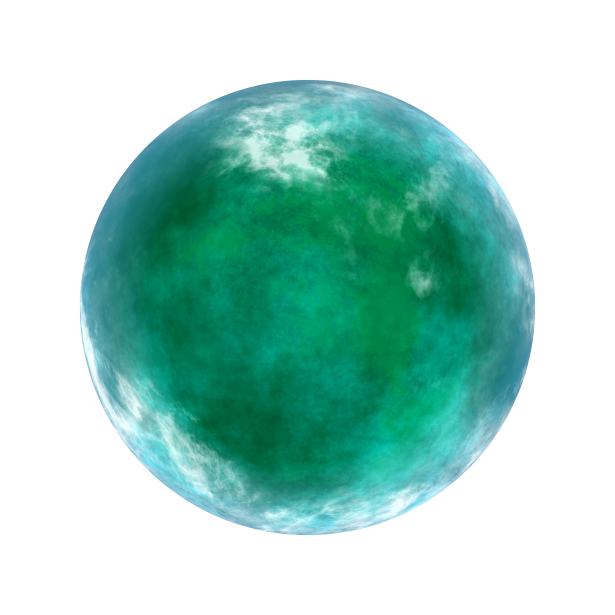
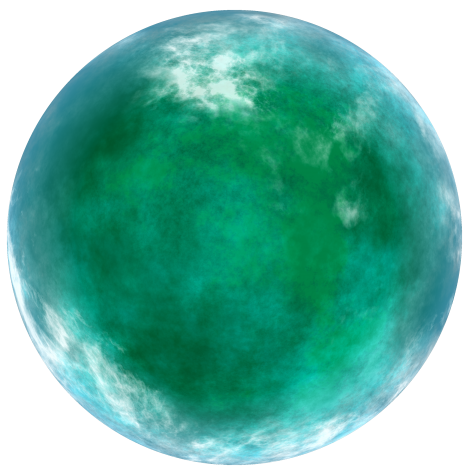
more fixes

diff --git a/SpaceGame.py b/SpaceGame.py
@@ -44,7 +44,7 @@ sunX = 470
 sunY = 260
 
 planet_green1 = pygame.image.load('planet_green.png')
-planet_green1 = pygame.transform.scale(planet_green1, (100, 100))
+planet_green1 = pygame.transform.scale(planet_green1, (75, 75))
 planet_greenX = 580
 planet_greenY = 80
 
@@ -83,7 +83,7 @@ def earth():
 
 # Collision
 def isCollision(playerX, playerY, planetX, planetY):
-    if playerX > planetX - 30 and playerX < planetX + 30 and playerY > planetY - 30 and playerY < planetY + 30:
+    if playerX > planetX - 40 and playerX < planetX + 40 and playerY > planetY - 40 and playerY < planetY + 40:
         return True
     return False
 
@@ -156,13 +156,13 @@ while running:
 
     if playerX <= 0:
         playerX = 0
-    elif playerX >= 1250:
-        playerX = 1250
+    elif playerX >= 1150:
+        playerX = 1150
 
     if playerY <= 0:
         playerY = 0
-    elif playerY >= 750:
-        playerY = 750
+    elif playerY >= 650:
+        playerY = 650
         
     #planetmovement  
     if(counter%400 > 200):
